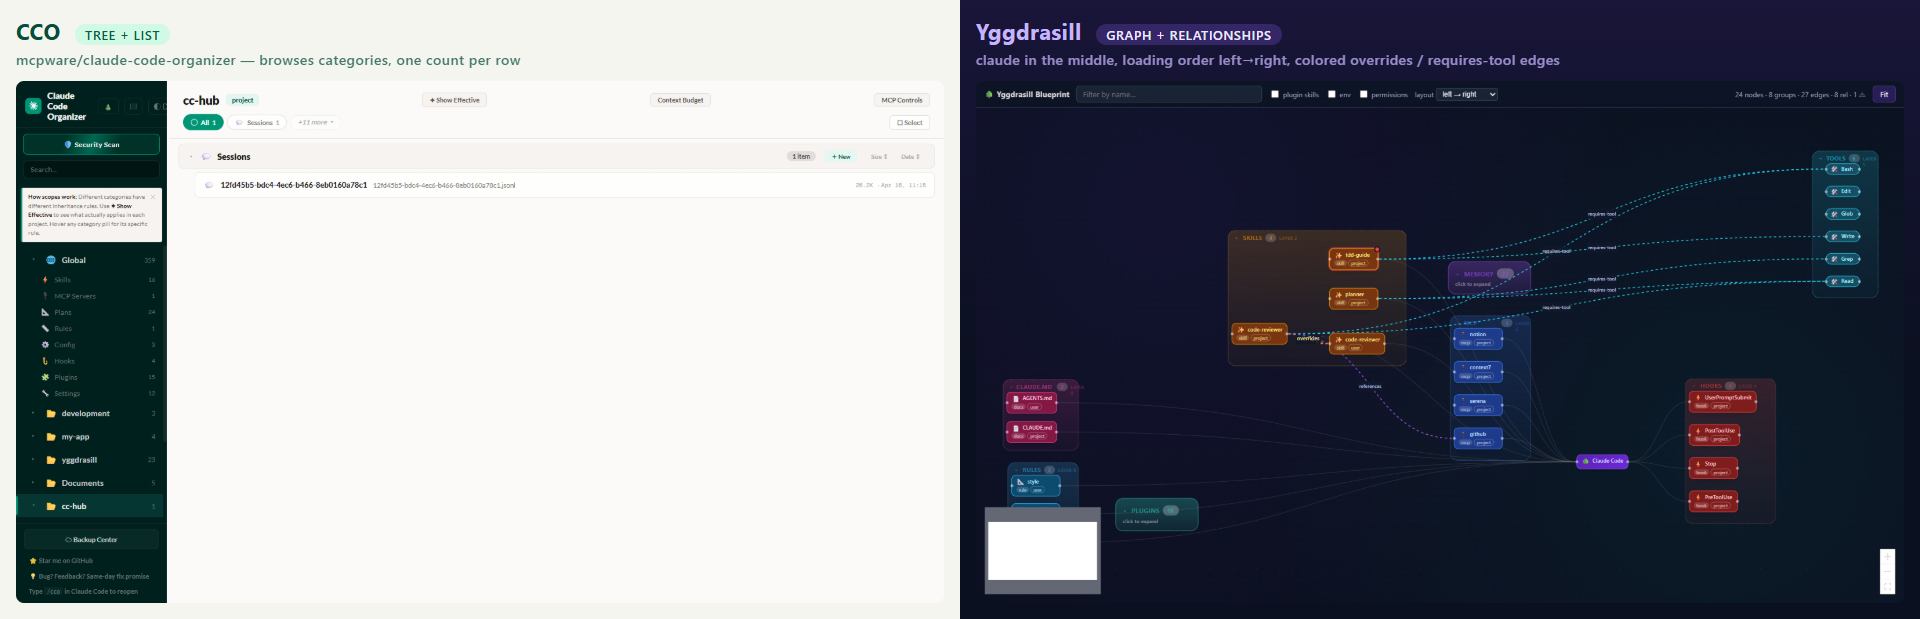
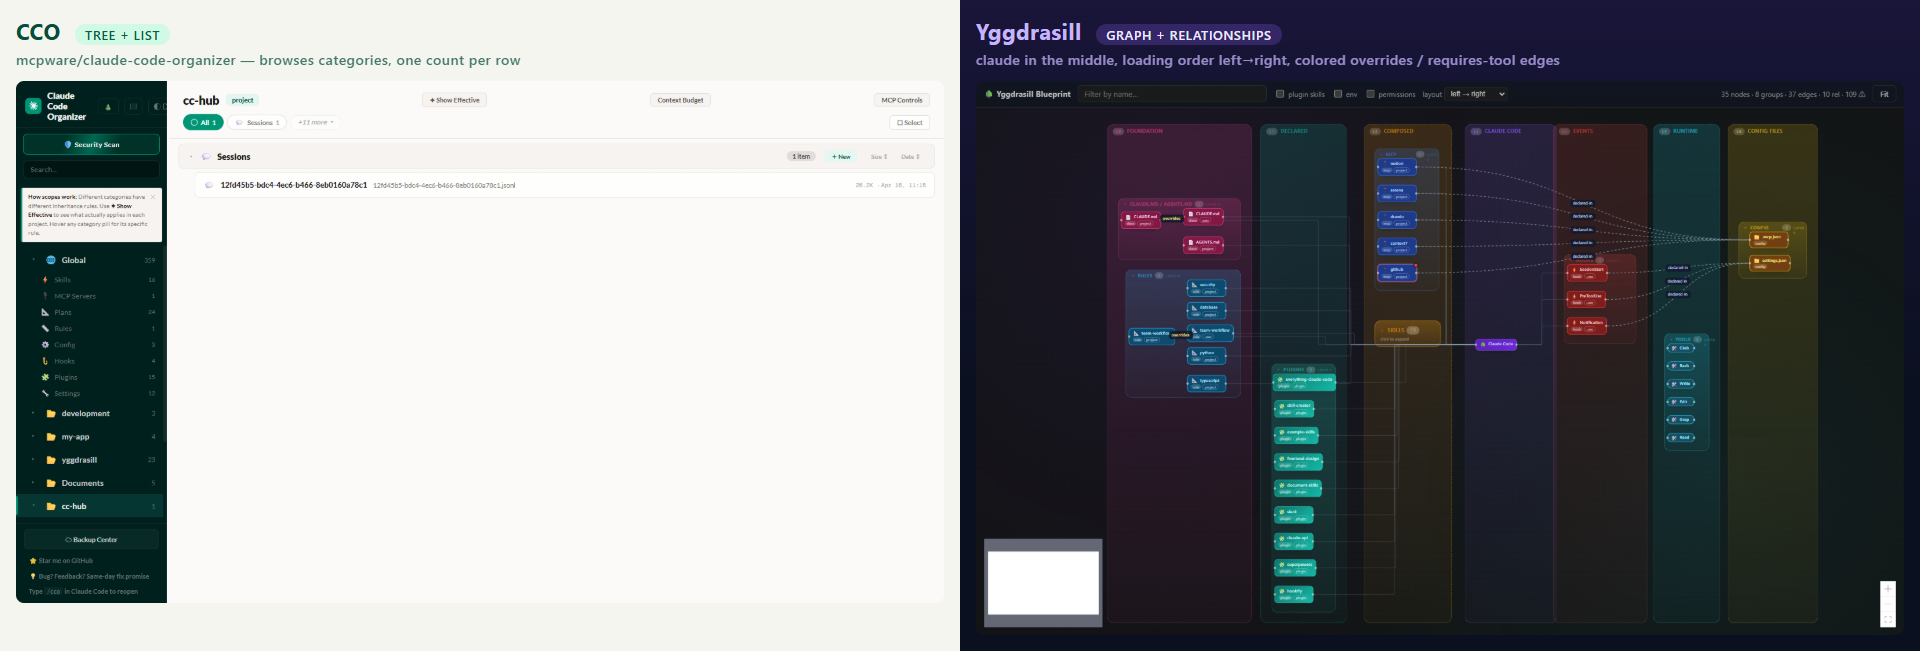
docs: real-harness capture on the right of the CCO comparison
The 'Why another Claude Code tool?' composite was still pairing
CCO's real dashboard against a synthetic Yggdrasill demo render.
Rebuilt compare.html to use media/screenshots/blueprint-hero.png
(the 35-node real-harness capture) on the right and recaptured
the side-by-side image at 1920x560. Dropped the redundant
yggdrasill-blueprint.png since both screenshots now come from the
same source.

diff --git a/demo/compare.html b/demo/compare.html
@@ -76,7 +76,7 @@
           Yggdrasill <span class="tag">graph + relationships</span>
           <div class="sub">claude in the middle, loading order left→right, colored overrides / requires-tool edges</div>
         </figcaption>
-        <img src="../media/screenshots/yggdrasill-blueprint.png" alt="Yggdrasill" />
+        <img src="../media/screenshots/blueprint-hero.png" alt="Yggdrasill" />
       </figure>
     </div>
   </body>
